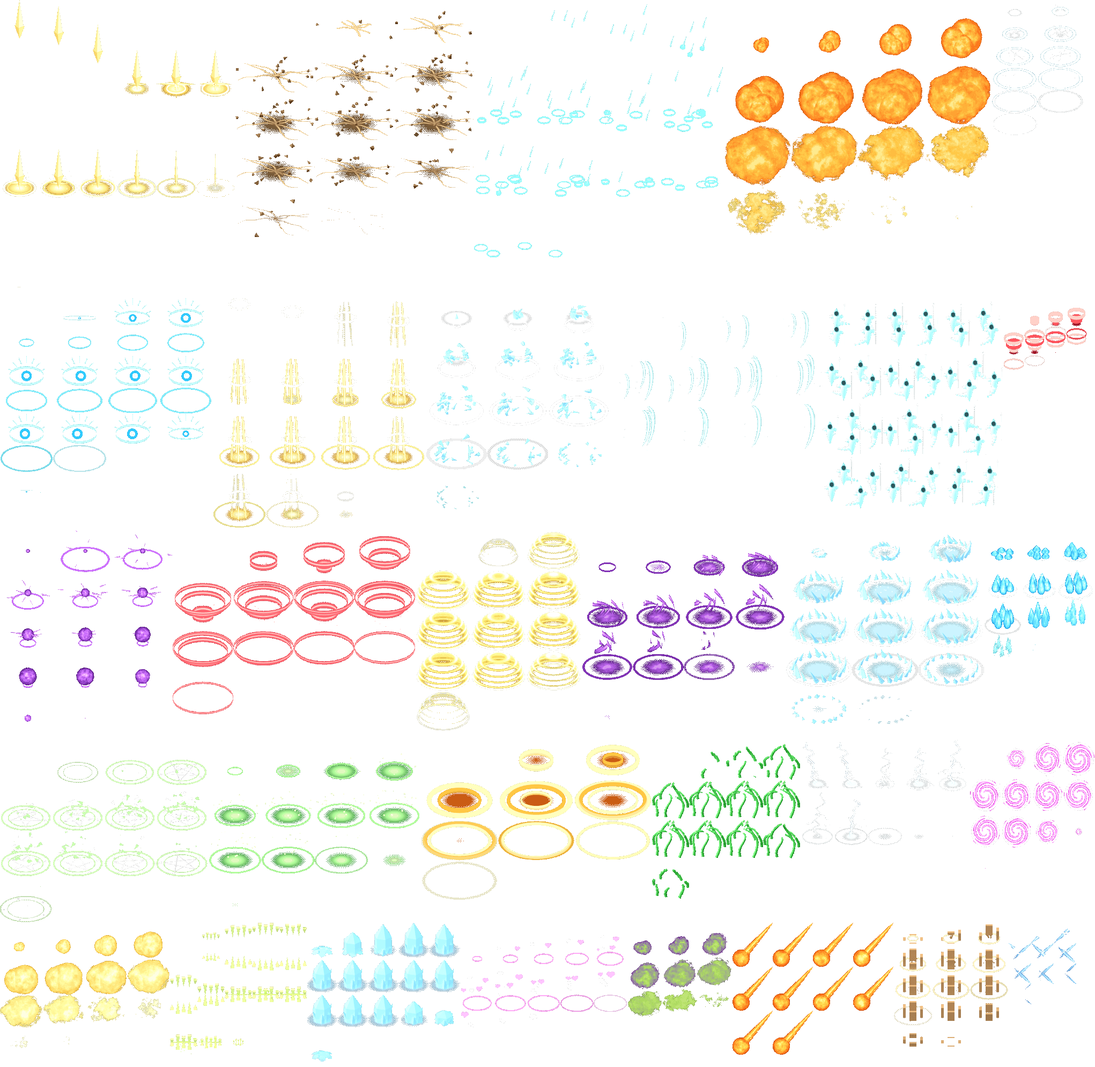
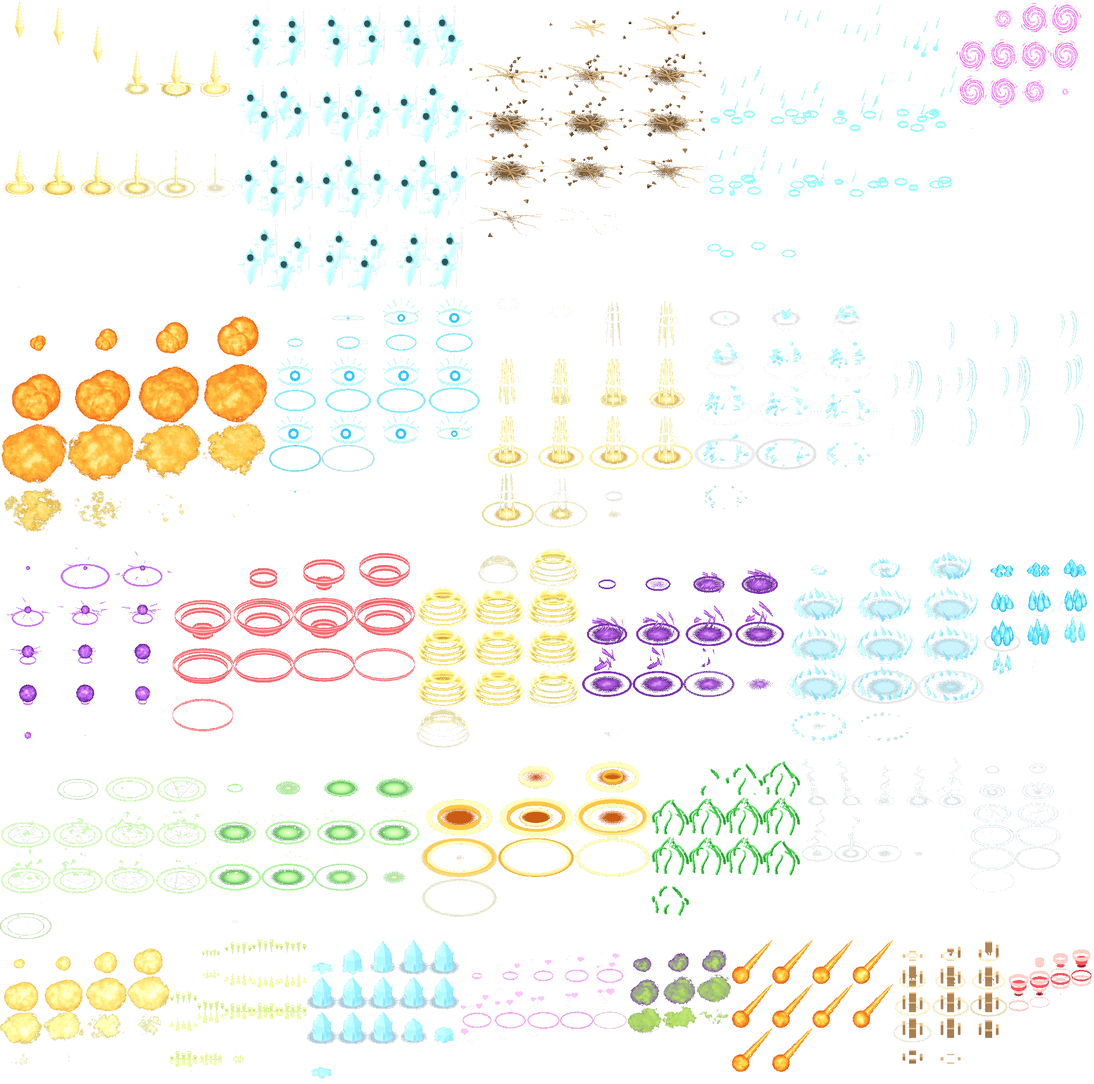
ULT-AUDIT: the guardians a full hero tall and more solid; the beast a grey wolf with an amber eye
Claude-Session: https://claude.ai/code/session_01RRJtWnKv3aqtC5Z8HqXpVz

diff --git a/src/render/blenderFxData.ts b/src/render/blenderFxData.ts
@@ -7,13 +7,13 @@ import type { BfxClip } from './blenderFxRules';
 export const BFX_DENSITY = 45;
 export const BFX_GLOW_SHRINK = 4;
 /** The hard pixel atlases' sizes, then the soft glow atlases' (`px-<n>.webp`, `soft-<n>.webp`). */
-export const BFX_PX: readonly (readonly [number, number])[] = [[2042, 1990], [1990, 685], [1088, 1104], [808, 1016], [822, 600], [949, 890], [217, 241], [1015, 806], [1137, 1385], [1001, 620], [903, 975], [1007, 966], [1016, 805], [584, 250], [1015, 996], [923, 903], [861, 944], [1176, 1280], [1516, 1280], [888, 522], [1137, 1405], [1008, 1200], [1021, 725], [929, 910], [617, 259], [1264, 1028], [807, 605], [1023, 821], [919, 810], [874, 978], [277, 220], [754, 896], [882, 878], [1008, 881], [585, 509], [817, 1019], [901, 810], [980, 813], [802, 784], [858, 814], [286, 241], [1009, 950], [689, 569], [912, 1080], [881, 584], [891, 898], [271, 232], [897, 982], [578, 235], [987, 993], [289, 253], [1018, 1006], [313, 277], [781, 941], [855, 612], [943, 881], [906, 970], [1076, 1048], [938, 695], [983, 874], [271, 232], [984, 1048], [1011, 876], [995, 758], [1516, 1200], [1014, 639], [1137, 1400], [992, 767], [1516, 1200], [871, 926], [829, 809], [945, 614], [1020, 1011], [813, 223], [1018, 1022], [499, 136], [1024, 1018], [699, 226], [1012, 1015], [515, 145], [1019, 991], [492, 148], [1003, 1020], [428, 213], [1015, 1018], [429, 124], [1003, 1006], [960, 208], [1021, 1023], [473, 145], [1024, 1008], [650, 226]];
+export const BFX_PX: readonly (readonly [number, number])[] = [[2041, 2022], [1992, 694], [1088, 1104], [808, 1016], [822, 600], [949, 890], [217, 241], [1015, 806], [1137, 1385], [1021, 769], [903, 975], [1007, 966], [1016, 805], [584, 250], [1015, 996], [923, 903], [861, 944], [1176, 1280], [1516, 1280], [888, 522], [1137, 1405], [1008, 1200], [1021, 725], [929, 910], [617, 259], [1264, 1028], [807, 605], [1023, 821], [919, 810], [874, 978], [277, 220], [754, 896], [882, 878], [1008, 881], [585, 509], [817, 1019], [901, 810], [980, 813], [802, 784], [858, 814], [286, 241], [1009, 950], [689, 569], [912, 1080], [881, 584], [891, 898], [271, 232], [897, 982], [578, 235], [987, 993], [289, 253], [1018, 1006], [313, 277], [781, 941], [855, 612], [943, 881], [906, 970], [1076, 1048], [938, 695], [983, 874], [271, 232], [984, 1048], [1011, 876], [995, 758], [1516, 1200], [1014, 639], [1137, 1400], [992, 767], [1516, 1200], [871, 926], [829, 809], [945, 614], [1020, 1011], [813, 223], [1018, 1022], [499, 136], [1024, 1018], [699, 226], [1012, 1015], [515, 145], [1019, 991], [492, 148], [1003, 1020], [428, 213], [1015, 1018], [429, 124], [1003, 1006], [960, 208], [1021, 1023], [473, 145], [1024, 1008], [650, 226]];
 export const BFX_SOFT: readonly (readonly [number, number])[] = [[2041, 1319]];
 /** The pixel atlases every fight may need (the spells, the ground loops): loaded up front. The rest are loaded when a fight needs them. */
 export const BFX_CORE: readonly number[] = [0, 1];
 
 export const BFX_CLIPS: Readonly<Record<string, BfxClip>> = {
-  'aura-spirits': {"a": 0, "x": 1534, "y": 556, "w": 112, "h": 98, "n": 12, "cols": 3, "ax": 55.0, "ay": 80.6, "ms": 1300, "loop": true, "hold": 0, "layer": "over", "el": "wind"},
+  'aura-spirits': {"a": 0, "x": 439, "y": 0, "w": 145, "h": 136, "n": 12, "cols": 3, "ax": 72.0, "ay": 116.4, "ms": 1300, "loop": true, "hold": 0, "layer": "over", "el": "wind"},
   'beat-appear-blood': {"a": 91, "x": 424, "y": 0, "w": 75, "h": 68, "n": 9, "cols": 3, "ax": 37.5, "ay": 48.3, "ms": 450, "loop": false, "hold": 4, "layer": "over", "el": "blood"},
   'beat-appear-dark': {"a": 80, "x": 386, "y": 774, "w": 75, "h": 65, "n": 9, "cols": 3, "ax": 37.5, "ay": 45.3, "ms": 450, "loop": false, "hold": 4, "layer": "over", "el": "shadow"},
   'beat-appear-earth': {"a": 87, "x": 0, "y": 0, "w": 75, "h": 69, "n": 9, "cols": 3, "ax": 37.5, "ay": 49.3, "ms": 450, "loop": false, "hold": 4, "layer": "over", "el": "earth"},
@@ -178,75 +178,75 @@ export const BFX_CLIPS: Readonly<Record<string, BfxClip>> = {
   'beat-snare-poison': {"a": 84, "x": 834, "y": 810, "w": 39, "h": 48, "n": 10, "cols": 4, "ax": 20.0, "ay": 35.7, "ms": 600, "loop": false, "hold": 6, "layer": "over", "el": "poison"},
   'beat-snare-wind': {"a": 89, "x": 0, "y": 0, "w": 38, "h": 48, "n": 10, "cols": 4, "ax": 19.0, "ay": 35.7, "ms": 600, "loop": false, "hold": 4, "layer": "over", "el": "wind"},
   'beat-tunnel': {"a": 86, "x": 334, "y": 852, "w": 41, "h": 49, "n": 9, "cols": 4, "ax": 20.5, "ay": 34.9, "ms": 520, "loop": false, "hold": 3, "layer": "over", "el": "earth"},
-  'ground-blood': {"a": 1, "x": 133, "y": 579, "w": 45, "h": 26, "n": 10, "cols": 3, "ax": 22.0, "ay": 15.3, "ms": 950, "loop": true, "hold": 0, "layer": "over", "el": "blood"},
-  'ground-dark': {"a": 1, "x": 633, "y": 446, "w": 45, "h": 31, "n": 10, "cols": 3, "ax": 22.0, "ay": 20.3, "ms": 950, "loop": true, "hold": 0, "layer": "over", "el": "shadow"},
-  'ground-earth': {"a": 1, "x": 1014, "y": 446, "w": 45, "h": 24, "n": 10, "cols": 2, "ax": 22.0, "ay": 13.3, "ms": 950, "loop": true, "hold": 0, "layer": "over", "el": "earth"},
-  'ground-fire': {"a": 1, "x": 276, "y": 446, "w": 45, "h": 32, "n": 10, "cols": 3, "ax": 22.0, "ay": 21.3, "ms": 950, "loop": true, "hold": 0, "layer": "over", "el": "fire"},
-  'ground-forest': {"a": 1, "x": 769, "y": 446, "w": 45, "h": 31, "n": 10, "cols": 3, "ax": 22.0, "ay": 20.3, "ms": 950, "loop": true, "hold": 0, "layer": "over", "el": "forest"},
-  'ground-ice': {"a": 1, "x": 269, "y": 579, "w": 45, "h": 26, "n": 10, "cols": 3, "ax": 22.0, "ay": 15.3, "ms": 950, "loop": true, "hold": 0, "layer": "over", "el": "ice"},
-  'ground-light': {"a": 1, "x": 1592, "y": 241, "w": 45, "h": 35, "n": 10, "cols": 3, "ax": 22.0, "ay": 24.3, "ms": 950, "loop": true, "hold": 0, "layer": "over", "el": "holy", "g": {"a": 0, "x": 1025, "y": 1237, "w": 15, "h": 17, "cols": 4, "ax": 7.25, "ay": 12.58}},
-  'ground-lightning': {"a": 1, "x": 1574, "y": 446, "w": 45, "h": 27, "n": 10, "cols": 3, "ax": 22.0, "ay": 16.3, "ms": 950, "loop": true, "hold": 0, "layer": "over", "el": "lightning", "g": {"a": 0, "x": 1087, "y": 1237, "w": 15, "h": 17, "cols": 4, "ax": 7.25, "ay": 12.58}},
-  'ground-poison': {"a": 1, "x": 542, "y": 446, "w": 45, "h": 25, "n": 10, "cols": 2, "ax": 22.0, "ay": 14.3, "ms": 950, "loop": true, "hold": 0, "layer": "over", "el": "poison"},
-  'ground-wind': {"a": 1, "x": 1208, "y": 446, "w": 45, "h": 23, "n": 10, "cols": 2, "ax": 22.0, "ay": 12.3, "ms": 950, "loop": true, "hold": 0, "layer": "over", "el": "wind"},
-  'spell-blink-cast': {"a": 0, "x": 1809, "y": 1380, "w": 58, "h": 68, "n": 14, "cols": 4, "ax": 28.5, "ay": 61.3, "ms": 980, "loop": false, "hold": 3, "layer": "over", "el": "arcane"},
-  'spell-bonewall-stand': {"a": 1, "x": 1728, "y": 241, "w": 34, "h": 46, "n": 10, "cols": 4, "ax": 17.0, "ay": 36.8, "ms": 900, "loop": true, "hold": 0, "layer": "over", "el": "bone"},
-  'spell-bulwark-hit': {"a": 0, "x": 1667, "y": 1721, "w": 71, "h": 48, "n": 14, "cols": 3, "ax": 35.5, "ay": 30.1, "ms": 980, "loop": false, "hold": 7, "layer": "over", "el": "earth"},
-  'spell-chain-cast': {"a": 1, "x": 0, "y": 446, "w": 46, "h": 33, "n": 12, "cols": 3, "ax": 23.5, "ay": 34.4, "ms": 780, "loop": false, "hold": 3, "layer": "over", "el": "lightning", "g": {"a": 0, "x": 95, "y": 1147, "w": 30, "h": 22, "cols": 3, "ax": 14.62, "ay": 13.09}},
-  'spell-chain-hit': {"a": 0, "x": 1493, "y": 1380, "w": 63, "h": 98, "n": 12, "cols": 5, "ax": 31.5, "ay": 82.8, "ms": 780, "loop": false, "hold": 4, "layer": "over", "el": "lightning", "g": {"a": 0, "x": 1519, "y": 744, "w": 35, "h": 35, "cols": 3, "ax": 17.12, "ay": 25.45}},
+  'ground-blood': {"a": 1, "x": 262, "y": 585, "w": 45, "h": 26, "n": 10, "cols": 3, "ax": 22.0, "ay": 15.3, "ms": 950, "loop": true, "hold": 0, "layer": "over", "el": "blood"},
+  'ground-dark': {"a": 1, "x": 758, "y": 446, "w": 45, "h": 31, "n": 10, "cols": 3, "ax": 22.0, "ay": 20.3, "ms": 950, "loop": true, "hold": 0, "layer": "over", "el": "shadow"},
+  'ground-earth': {"a": 1, "x": 1139, "y": 446, "w": 45, "h": 24, "n": 10, "cols": 2, "ax": 22.0, "ay": 13.3, "ms": 950, "loop": true, "hold": 0, "layer": "over", "el": "earth"},
+  'ground-fire': {"a": 1, "x": 401, "y": 446, "w": 45, "h": 32, "n": 10, "cols": 3, "ax": 22.0, "ay": 21.3, "ms": 950, "loop": true, "hold": 0, "layer": "over", "el": "fire"},
+  'ground-forest': {"a": 1, "x": 894, "y": 446, "w": 45, "h": 31, "n": 10, "cols": 3, "ax": 22.0, "ay": 20.3, "ms": 950, "loop": true, "hold": 0, "layer": "over", "el": "forest"},
+  'ground-ice': {"a": 1, "x": 398, "y": 585, "w": 45, "h": 26, "n": 10, "cols": 3, "ax": 22.0, "ay": 15.3, "ms": 950, "loop": true, "hold": 0, "layer": "over", "el": "ice"},
+  'ground-light': {"a": 1, "x": 1719, "y": 241, "w": 45, "h": 35, "n": 10, "cols": 3, "ax": 22.0, "ay": 24.3, "ms": 950, "loop": true, "hold": 0, "layer": "over", "el": "holy", "g": {"a": 0, "x": 1025, "y": 1237, "w": 15, "h": 17, "cols": 4, "ax": 7.25, "ay": 12.58}},
+  'ground-lightning': {"a": 1, "x": 1699, "y": 446, "w": 45, "h": 27, "n": 10, "cols": 3, "ax": 22.0, "ay": 16.3, "ms": 950, "loop": true, "hold": 0, "layer": "over", "el": "lightning", "g": {"a": 0, "x": 1087, "y": 1237, "w": 15, "h": 17, "cols": 4, "ax": 7.25, "ay": 12.58}},
+  'ground-poison': {"a": 1, "x": 667, "y": 446, "w": 45, "h": 25, "n": 10, "cols": 2, "ax": 22.0, "ay": 14.3, "ms": 950, "loop": true, "hold": 0, "layer": "over", "el": "poison"},
+  'ground-wind': {"a": 1, "x": 1333, "y": 446, "w": 45, "h": 23, "n": 10, "cols": 2, "ax": 22.0, "ay": 12.3, "ms": 950, "loop": true, "hold": 0, "layer": "over", "el": "wind"},
+  'spell-blink-cast': {"a": 0, "x": 1785, "y": 0, "w": 58, "h": 68, "n": 14, "cols": 4, "ax": 28.5, "ay": 61.3, "ms": 980, "loop": false, "hold": 3, "layer": "over", "el": "arcane"},
+  'spell-bonewall-stand': {"a": 1, "x": 1855, "y": 241, "w": 34, "h": 46, "n": 10, "cols": 4, "ax": 17.0, "ay": 36.8, "ms": 900, "loop": true, "hold": 0, "layer": "over", "el": "bone"},
+  'spell-bulwark-hit': {"a": 0, "x": 1667, "y": 1753, "w": 71, "h": 48, "n": 14, "cols": 3, "ax": 35.5, "ay": 30.1, "ms": 980, "loop": false, "hold": 7, "layer": "over", "el": "earth"},
+  'spell-chain-cast': {"a": 1, "x": 125, "y": 446, "w": 46, "h": 33, "n": 12, "cols": 3, "ax": 23.5, "ay": 34.4, "ms": 780, "loop": false, "hold": 3, "layer": "over", "el": "lightning", "g": {"a": 0, "x": 95, "y": 1147, "w": 30, "h": 22, "cols": 3, "ax": 14.62, "ay": 13.09}},
+  'spell-chain-hit': {"a": 0, "x": 1493, "y": 1412, "w": 63, "h": 98, "n": 12, "cols": 5, "ax": 31.5, "ay": 82.8, "ms": 780, "loop": false, "hold": 4, "layer": "over", "el": "lightning", "g": {"a": 0, "x": 1519, "y": 744, "w": 35, "h": 35, "cols": 3, "ax": 17.12, "ay": 25.45}},
   'spell-charm-cast': {"a": 1, "x": 821, "y": 241, "w": 83, "h": 44, "n": 12, "cols": 3, "ax": 41.5, "ay": 23.0, "ms": 780, "loop": false, "hold": 3, "layer": "ground", "el": "arcane"},
-  'spell-charm-hit': {"a": 0, "x": 859, "y": 1721, "w": 62, "h": 83, "n": 14, "cols": 5, "ax": 31.0, "ay": 68.1, "ms": 980, "loop": false, "hold": 6, "layer": "over", "el": "arcane"},
-  'spell-cleanse-cast': {"a": 0, "x": 884, "y": 0, "w": 116, "h": 123, "n": 14, "cols": 4, "ax": 53.5, "ay": 98.9, "ms": 980, "loop": false, "hold": 7, "layer": "over", "el": "water"},
-  'spell-cleanse-hit': {"a": 0, "x": 1836, "y": 989, "w": 68, "h": 65, "n": 12, "cols": 3, "ax": 34.0, "ay": 47.8, "ms": 780, "loop": false, "hold": 6, "layer": "over", "el": "water"},
+  'spell-charm-hit': {"a": 0, "x": 859, "y": 1753, "w": 62, "h": 83, "n": 14, "cols": 5, "ax": 31.0, "ay": 68.1, "ms": 980, "loop": false, "hold": 6, "layer": "over", "el": "arcane"},
+  'spell-cleanse-cast': {"a": 0, "x": 1320, "y": 0, "w": 116, "h": 123, "n": 14, "cols": 4, "ax": 53.5, "ay": 98.9, "ms": 980, "loop": false, "hold": 7, "layer": "over", "el": "water"},
+  'spell-cleanse-hit': {"a": 0, "x": 1836, "y": 1021, "w": 68, "h": 65, "n": 12, "cols": 3, "ax": 34.0, "ay": 47.8, "ms": 780, "loop": false, "hold": 6, "layer": "over", "el": "water"},
   'spell-deepfreeze-cast': {"a": 1, "x": 1690, "y": 0, "w": 97, "h": 51, "n": 12, "cols": 3, "ax": 48.5, "ay": 26.5, "ms": 780, "loop": false, "hold": 4, "layer": "ground", "el": "ice"},
-  'spell-deepfreeze-hit': {"a": 0, "x": 573, "y": 1721, "w": 57, "h": 65, "n": 16, "cols": 5, "ax": 27.5, "ay": 51.3, "ms": 1280, "loop": false, "hold": 3, "layer": "over", "el": "ice"},
+  'spell-deepfreeze-hit': {"a": 0, "x": 573, "y": 1753, "w": 57, "h": 65, "n": 16, "cols": 5, "ax": 27.5, "ay": 51.3, "ms": 1280, "loop": false, "hold": 3, "layer": "over", "el": "ice"},
   'spell-drain-hit': {"a": 1, "x": 292, "y": 0, "w": 47, "h": 78, "n": 14, "cols": 5, "ax": 23.5, "ay": 66.4, "ms": 980, "loop": false, "hold": 9, "layer": "over", "el": "blood"},
-  'spell-firewall-stand': {"a": 1, "x": 1423, "y": 446, "w": 30, "h": 55, "n": 10, "cols": 5, "ax": 15.0, "ay": 48.9, "ms": 900, "loop": true, "hold": 0, "layer": "over", "el": "fire"},
-  'spell-foresight-cast': {"a": 0, "x": 0, "y": 556, "w": 99, "h": 108, "n": 14, "cols": 4, "ax": 49.5, "ay": 83.9, "ms": 980, "loop": false, "hold": 7, "layer": "over", "el": "water", "g": {"a": 0, "x": 1626, "y": 744, "w": 35, "h": 34, "cols": 4, "ax": 17.12, "ay": 23.99}},
-  'spell-frost-cast': {"a": 0, "x": 1466, "y": 989, "w": 123, "h": 73, "n": 14, "cols": 3, "ax": 61.5, "ay": 42.4, "ms": 980, "loop": false, "hold": 9, "layer": "over", "el": "ice"},
-  'spell-frost-hit': {"a": 1, "x": 1710, "y": 446, "w": 31, "h": 36, "n": 12, "cols": 4, "ax": 15.5, "ay": 28.2, "ms": 780, "loop": false, "hold": 5, "layer": "over", "el": "ice"},
-  'spell-gale-cast': {"a": 0, "x": 1137, "y": 556, "w": 99, "h": 99, "n": 14, "cols": 4, "ax": 48.0, "ay": 72.5, "ms": 980, "loop": false, "hold": 6, "layer": "over", "el": "wind"},
+  'spell-firewall-stand': {"a": 1, "x": 1548, "y": 446, "w": 30, "h": 55, "n": 10, "cols": 5, "ax": 15.0, "ay": 48.9, "ms": 900, "loop": true, "hold": 0, "layer": "over", "el": "fire"},
+  'spell-foresight-cast': {"a": 0, "x": 501, "y": 556, "w": 99, "h": 108, "n": 14, "cols": 4, "ax": 49.5, "ay": 83.9, "ms": 980, "loop": false, "hold": 7, "layer": "over", "el": "water", "g": {"a": 0, "x": 1626, "y": 744, "w": 35, "h": 34, "cols": 4, "ax": 17.12, "ay": 23.99}},
+  'spell-frost-cast': {"a": 0, "x": 1466, "y": 1021, "w": 123, "h": 73, "n": 14, "cols": 3, "ax": 61.5, "ay": 42.4, "ms": 980, "loop": false, "hold": 9, "layer": "over", "el": "ice"},
+  'spell-frost-hit': {"a": 1, "x": 1835, "y": 446, "w": 31, "h": 36, "n": 12, "cols": 4, "ax": 15.5, "ay": 28.2, "ms": 780, "loop": false, "hold": 5, "layer": "over", "el": "ice"},
+  'spell-gale-cast': {"a": 0, "x": 1638, "y": 556, "w": 99, "h": 99, "n": 14, "cols": 4, "ax": 48.0, "ay": 72.5, "ms": 980, "loop": false, "hold": 6, "layer": "over", "el": "wind"},
   'spell-haste-cast': {"a": 1, "x": 963, "y": 0, "w": 106, "h": 55, "n": 12, "cols": 3, "ax": 53.0, "ay": 28.0, "ms": 780, "loop": false, "hold": 4, "layer": "ground", "el": "wind"},
   'spell-haste-hit': {"a": 1, "x": 706, "y": 0, "w": 64, "h": 74, "n": 12, "cols": 4, "ax": 32.0, "ay": 58.0, "ms": 780, "loop": false, "hold": 3, "layer": "over", "el": "wind"},
-  'spell-heal-cast': {"a": 0, "x": 389, "y": 1380, "w": 99, "h": 83, "n": 14, "cols": 4, "ax": 49.5, "ay": 59.0, "ms": 980, "loop": false, "hold": 7, "layer": "over", "el": "forest", "g": {"a": 0, "x": 493, "y": 906, "w": 35, "h": 28, "cols": 4, "ax": 17.12, "ay": 17.74}},
+  'spell-heal-cast': {"a": 0, "x": 389, "y": 1412, "w": 99, "h": 83, "n": 14, "cols": 4, "ax": 49.5, "ay": 59.0, "ms": 980, "loop": false, "hold": 7, "layer": "over", "el": "forest", "g": {"a": 0, "x": 493, "y": 906, "w": 35, "h": 28, "cols": 4, "ax": 17.12, "ay": 17.74}},
   'spell-heal-hit': {"a": 1, "x": 229, "y": 241, "w": 59, "h": 49, "n": 12, "cols": 3, "ax": 29.5, "ay": 34.8, "ms": 780, "loop": false, "hold": 7, "layer": "over", "el": "forest", "g": {"a": 0, "x": 596, "y": 1237, "w": 19, "h": 22, "cols": 4, "ax": 9.12, "ay": 15.7}},
-  'spell-hex-cast': {"a": 0, "x": 0, "y": 989, "w": 107, "h": 78, "n": 14, "cols": 3, "ax": 52.0, "ay": 55.1, "ms": 980, "loop": false, "hold": 10, "layer": "over", "el": "shadow"},
-  'spell-hex-hit': {"a": 1, "x": 1415, "y": 241, "w": 44, "h": 48, "n": 12, "cols": 4, "ax": 20.5, "ay": 37.6, "ms": 780, "loop": false, "hold": 5, "layer": "over", "el": "shadow"},
-  'spell-icewall-stand': {"a": 1, "x": 1865, "y": 241, "w": 31, "h": 46, "n": 10, "cols": 4, "ax": 15.0, "ay": 38.9, "ms": 900, "loop": true, "hold": 0, "layer": "over", "el": "ice"},
-  'spell-lance-cast': {"a": 1, "x": 1835, "y": 446, "w": 32, "h": 36, "n": 12, "cols": 4, "ax": 16.0, "ay": 28.8, "ms": 780, "loop": false, "hold": 5, "layer": "over", "el": "holy", "g": {"a": 0, "x": 1919, "y": 1147, "w": 22, "h": 20, "cols": 3, "ax": 10.75, "ay": 12.45}},
-  'spell-lance-hit': {"a": 1, "x": 1299, "y": 446, "w": 41, "h": 28, "n": 12, "cols": 3, "ax": 23.0, "ay": 31.5, "ms": 780, "loop": false, "hold": 3, "layer": "over", "el": "holy", "g": {"a": 0, "x": 528, "y": 1237, "w": 22, "h": 18, "cols": 3, "ax": 10.75, "ay": 11.63}},
-  'spell-meteor-fly': {"a": 0, "x": 1366, "y": 1721, "w": 75, "h": 82, "n": 10, "cols": 4, "ax": 16.0, "ay": 66.0, "ms": 900, "loop": true, "hold": 0, "layer": "over", "el": "fire"},
-  'spell-meteor-land': {"a": 0, "x": 1349, "y": 0, "w": 125, "h": 116, "n": 16, "cols": 4, "ax": 74.0, "ay": 95.0, "ms": 1040, "loop": false, "hold": 8, "layer": "over", "el": "fire"},
+  'spell-hex-cast': {"a": 0, "x": 0, "y": 1021, "w": 107, "h": 78, "n": 14, "cols": 3, "ax": 52.0, "ay": 55.1, "ms": 980, "loop": false, "hold": 10, "layer": "over", "el": "shadow"},
+  'spell-hex-hit': {"a": 1, "x": 1542, "y": 241, "w": 44, "h": 48, "n": 12, "cols": 4, "ax": 20.5, "ay": 37.6, "ms": 780, "loop": false, "hold": 5, "layer": "over", "el": "shadow"},
+  'spell-icewall-stand': {"a": 1, "x": 0, "y": 446, "w": 31, "h": 46, "n": 10, "cols": 4, "ax": 15.0, "ay": 38.9, "ms": 900, "loop": true, "hold": 0, "layer": "over", "el": "ice"},
+  'spell-lance-cast': {"a": 1, "x": 0, "y": 585, "w": 32, "h": 36, "n": 12, "cols": 4, "ax": 16.0, "ay": 28.8, "ms": 780, "loop": false, "hold": 5, "layer": "over", "el": "holy", "g": {"a": 0, "x": 1919, "y": 1147, "w": 22, "h": 20, "cols": 3, "ax": 10.75, "ay": 12.45}},
+  'spell-lance-hit': {"a": 1, "x": 1424, "y": 446, "w": 41, "h": 28, "n": 12, "cols": 3, "ax": 23.0, "ay": 31.5, "ms": 780, "loop": false, "hold": 3, "layer": "over", "el": "holy", "g": {"a": 0, "x": 528, "y": 1237, "w": 22, "h": 18, "cols": 3, "ax": 10.75, "ay": 11.63}},
+  'spell-meteor-fly': {"a": 0, "x": 1366, "y": 1753, "w": 75, "h": 82, "n": 10, "cols": 4, "ax": 16.0, "ay": 66.0, "ms": 900, "loop": true, "hold": 0, "layer": "over", "el": "fire"},
+  'spell-meteor-land': {"a": 0, "x": 0, "y": 556, "w": 125, "h": 116, "n": 16, "cols": 4, "ax": 74.0, "ay": 95.0, "ms": 1040, "loop": false, "hold": 8, "layer": "over", "el": "fire"},
   'spell-mirage-hit': {"a": 1, "x": 600, "y": 241, "w": 44, "h": 62, "n": 14, "cols": 5, "ax": 21.0, "ay": 55.0, "ms": 980, "loop": false, "hold": 6, "layer": "over", "el": "wind"},
-  'spell-poison-cast': {"a": 0, "x": 1170, "y": 1721, "w": 65, "h": 62, "n": 12, "cols": 3, "ax": 25.0, "ay": 52.9, "ms": 780, "loop": false, "hold": 5, "layer": "over", "el": "poison"},
-  'spell-poison-stand': {"a": 1, "x": 905, "y": 446, "w": 36, "h": 31, "n": 10, "cols": 3, "ax": 15.0, "ay": 24.8, "ms": 900, "loop": true, "hold": 0, "layer": "over", "el": "poison"},
-  'spell-quake-cast': {"a": 0, "x": 439, "y": 0, "w": 148, "h": 89, "n": 16, "cols": 3, "ax": 74.5, "ay": 53.5, "ms": 1200, "loop": false, "hold": 7, "layer": "ground", "el": "earth"},
-  'spell-quake-hit': {"a": 1, "x": 0, "y": 579, "w": 33, "h": 35, "n": 12, "cols": 4, "ax": 18.5, "ay": 24.9, "ms": 780, "loop": false, "hold": 4, "layer": "over", "el": "earth"},
-  'spell-raisedead-cast': {"a": 0, "x": 1085, "y": 989, "w": 95, "h": 93, "n": 14, "cols": 4, "ax": 47.5, "ay": 69.8, "ms": 980, "loop": false, "hold": 8, "layer": "over", "el": "shadow"},
+  'spell-poison-cast': {"a": 0, "x": 1170, "y": 1753, "w": 65, "h": 62, "n": 12, "cols": 3, "ax": 25.0, "ay": 52.9, "ms": 780, "loop": false, "hold": 5, "layer": "over", "el": "poison"},
+  'spell-poison-stand': {"a": 1, "x": 1030, "y": 446, "w": 36, "h": 31, "n": 10, "cols": 3, "ax": 15.0, "ay": 24.8, "ms": 900, "loop": true, "hold": 0, "layer": "over", "el": "poison"},
+  'spell-quake-cast': {"a": 0, "x": 875, "y": 0, "w": 148, "h": 89, "n": 16, "cols": 3, "ax": 74.5, "ay": 53.5, "ms": 1200, "loop": false, "hold": 7, "layer": "ground", "el": "earth"},
+  'spell-quake-hit': {"a": 1, "x": 129, "y": 585, "w": 33, "h": 35, "n": 12, "cols": 4, "ax": 18.5, "ay": 24.9, "ms": 780, "loop": false, "hold": 4, "layer": "over", "el": "earth"},
+  'spell-raisedead-cast': {"a": 0, "x": 1085, "y": 1021, "w": 95, "h": 93, "n": 14, "cols": 4, "ax": 47.5, "ay": 69.8, "ms": 980, "loop": false, "hold": 8, "layer": "over", "el": "shadow"},
   'spell-raisedead-hit': {"a": 1, "x": 528, "y": 0, "w": 59, "h": 56, "n": 12, "cols": 3, "ax": 29.5, "ay": 41.7, "ms": 780, "loop": false, "hold": 7, "layer": "over", "el": "shadow"},
-  'spell-rally-cast': {"a": 0, "x": 786, "y": 1380, "w": 143, "h": 75, "n": 12, "cols": 3, "ax": 71.0, "ay": 38.5, "ms": 780, "loop": false, "hold": 4, "layer": "ground", "el": "fire"},
+  'spell-rally-cast': {"a": 0, "x": 786, "y": 1412, "w": 143, "h": 75, "n": 12, "cols": 3, "ax": 71.0, "ay": 38.5, "ms": 780, "loop": false, "hold": 4, "layer": "ground", "el": "fire"},
   'spell-rally-hit': {"a": 1, "x": 1469, "y": 0, "w": 55, "h": 53, "n": 14, "cols": 4, "ax": 27.5, "ay": 39.3, "ms": 980, "loop": false, "hold": 7, "layer": "over", "el": "fire"},
-  'spell-renewal-cast': {"a": 0, "x": 0, "y": 1380, "w": 97, "h": 85, "n": 14, "cols": 4, "ax": 48.0, "ay": 61.2, "ms": 980, "loop": false, "hold": 6, "layer": "over", "el": "forest", "cuts": [[0, 13], [1, 13]], "sc": ["sigil", "swarm"], "g": {"a": 0, "x": 802, "y": 1040, "w": 31, "h": 26, "cols": 4, "ax": 15.5, "ay": 17.05}},
-  'spell-renewal-hit': {"a": 1, "x": 139, "y": 446, "w": 34, "h": 44, "n": 12, "cols": 4, "ax": 16.5, "ay": 35.6, "ms": 780, "loop": false, "hold": 6, "layer": "over", "el": "forest", "g": {"a": 0, "x": 831, "y": 1237, "w": 17, "h": 18, "cols": 4, "ax": 8.38, "ay": 12.89}},
+  'spell-renewal-cast': {"a": 0, "x": 0, "y": 1412, "w": 97, "h": 85, "n": 14, "cols": 4, "ax": 48.0, "ay": 61.2, "ms": 980, "loop": false, "hold": 6, "layer": "over", "el": "forest", "cuts": [[0, 13], [1, 13]], "sc": ["sigil", "swarm"], "g": {"a": 0, "x": 802, "y": 1040, "w": 31, "h": 26, "cols": 4, "ax": 15.5, "ay": 17.05}},
+  'spell-renewal-hit': {"a": 1, "x": 264, "y": 446, "w": 34, "h": 44, "n": 12, "cols": 4, "ax": 16.5, "ay": 35.6, "ms": 780, "loop": false, "hold": 6, "layer": "over", "el": "forest", "g": {"a": 0, "x": 831, "y": 1237, "w": 17, "h": 18, "cols": 4, "ax": 8.38, "ay": 12.89}},
   'spell-resurrect-cast': {"a": 1, "x": 0, "y": 0, "w": 97, "h": 60, "n": 11, "cols": 3, "ax": 48.5, "ay": 36.6, "ms": 980, "loop": false, "hold": 4, "layer": "ground", "el": "holy", "g": {"a": 0, "x": 0, "y": 1237, "w": 30, "h": 20, "cols": 3, "ax": 14.62, "ay": 11.64}},
-  'spell-resurrect-hit': {"a": 0, "x": 397, "y": 556, "w": 99, "h": 107, "n": 16, "cols": 4, "ax": 49.5, "ay": 83.1, "ms": 1200, "loop": false, "hold": 10, "layer": "over", "el": "holy", "g": {"a": 0, "x": 143, "y": 906, "w": 28, "h": 32, "cols": 5, "ax": 13.88, "ay": 24.03}},
-  'spell-shatter-cast': {"a": 0, "x": 794, "y": 556, "w": 114, "h": 80, "n": 14, "cols": 3, "ax": 57.5, "ay": 51.6, "ms": 980, "loop": false, "hold": 8, "layer": "over", "el": "ice"},
-  'spell-shatter-hit': {"a": 0, "x": 1881, "y": 1721, "w": 42, "h": 38, "n": 12, "cols": 3, "ax": 21.0, "ay": 41.0, "ms": 780, "loop": false, "hold": 5, "layer": "over", "el": "ice"},
-  'spell-shield-cast': {"a": 0, "x": 775, "y": 989, "w": 103, "h": 75, "n": 14, "cols": 3, "ax": 51.5, "ay": 49.3, "ms": 980, "loop": false, "hold": 7, "layer": "over", "el": "holy", "g": {"a": 0, "x": 395, "y": 906, "w": 32, "h": 24, "cols": 3, "ax": 15.88, "ay": 14.32}},
-  'spell-shield-hit': {"a": 1, "x": 412, "y": 446, "w": 43, "h": 32, "n": 12, "cols": 3, "ax": 21.5, "ay": 21.5, "ms": 780, "loop": false, "hold": 3, "layer": "over", "el": "holy", "g": {"a": 0, "x": 1987, "y": 1147, "w": 17, "h": 14, "cols": 3, "ax": 8.38, "ay": 8.12}},
-  'spell-smite-cast': {"a": 1, "x": 1071, "y": 241, "w": 69, "h": 37, "n": 12, "cols": 3, "ax": 34.0, "ay": 19.0, "ms": 780, "loop": false, "hold": 3, "layer": "ground", "el": "holy", "g": {"a": 0, "x": 760, "y": 1237, "w": 23, "h": 14, "cols": 3, "ax": 11.5, "ay": 6.75}},
+  'spell-resurrect-hit': {"a": 0, "x": 898, "y": 556, "w": 99, "h": 107, "n": 16, "cols": 4, "ax": 49.5, "ay": 83.1, "ms": 1200, "loop": false, "hold": 10, "layer": "over", "el": "holy", "g": {"a": 0, "x": 143, "y": 906, "w": 28, "h": 32, "cols": 5, "ax": 13.88, "ay": 24.03}},
+  'spell-shatter-cast': {"a": 0, "x": 1295, "y": 556, "w": 114, "h": 80, "n": 14, "cols": 3, "ax": 57.5, "ay": 51.6, "ms": 980, "loop": false, "hold": 8, "layer": "over", "el": "ice"},
+  'spell-shatter-hit': {"a": 1, "x": 1071, "y": 241, "w": 42, "h": 38, "n": 12, "cols": 3, "ax": 21.0, "ay": 41.0, "ms": 780, "loop": false, "hold": 5, "layer": "over", "el": "ice"},
+  'spell-shield-cast': {"a": 0, "x": 775, "y": 1021, "w": 103, "h": 75, "n": 14, "cols": 3, "ax": 51.5, "ay": 49.3, "ms": 980, "loop": false, "hold": 7, "layer": "over", "el": "holy", "g": {"a": 0, "x": 395, "y": 906, "w": 32, "h": 24, "cols": 3, "ax": 15.88, "ay": 14.32}},
+  'spell-shield-hit': {"a": 1, "x": 537, "y": 446, "w": 43, "h": 32, "n": 12, "cols": 3, "ax": 21.5, "ay": 21.5, "ms": 780, "loop": false, "hold": 3, "layer": "over", "el": "holy", "g": {"a": 0, "x": 1987, "y": 1147, "w": 17, "h": 14, "cols": 3, "ax": 8.38, "ay": 8.12}},
+  'spell-smite-cast': {"a": 1, "x": 1198, "y": 241, "w": 69, "h": 37, "n": 12, "cols": 3, "ax": 34.0, "ay": 19.0, "ms": 780, "loop": false, "hold": 3, "layer": "ground", "el": "holy", "g": {"a": 0, "x": 760, "y": 1237, "w": 23, "h": 14, "cols": 3, "ax": 11.5, "ay": 6.75}},
   'spell-smite-hit': {"a": 0, "x": 0, "y": 0, "w": 73, "h": 185, "n": 14, "cols": 6, "ax": 36.5, "ay": 166.4, "ms": 980, "loop": false, "hold": 7, "layer": "over", "el": "holy", "g": {"a": 0, "x": 1378, "y": 452, "w": 36, "h": 58, "cols": 5, "ax": 17.88, "ay": 47.35}},
-  'spell-snare-cast': {"a": 0, "x": 1216, "y": 1380, "w": 69, "h": 74, "n": 14, "cols": 4, "ax": 31.0, "ay": 53.2, "ms": 980, "loop": false, "hold": 8, "layer": "over", "el": "forest"},
-  'spell-snare-hit': {"a": 1, "x": 514, "y": 579, "w": 25, "h": 31, "n": 12, "cols": 4, "ax": 12.0, "ay": 24.1, "ms": 780, "loop": false, "hold": 7, "layer": "over", "el": "forest"},
+  'spell-snare-cast': {"a": 0, "x": 1216, "y": 1412, "w": 69, "h": 74, "n": 14, "cols": 4, "ax": 31.0, "ay": 53.2, "ms": 980, "loop": false, "hold": 8, "layer": "over", "el": "forest"},
+  'spell-snare-hit': {"a": 1, "x": 643, "y": 585, "w": 25, "h": 31, "n": 12, "cols": 4, "ax": 12.0, "ay": 24.1, "ms": 780, "loop": false, "hold": 7, "layer": "over", "el": "forest"},
   'spell-starfall-fly': {"a": 1, "x": 1282, "y": 0, "w": 62, "h": 54, "n": 10, "cols": 3, "ax": 13.5, "ay": 39.4, "ms": 900, "loop": true, "hold": 0, "layer": "over", "el": "holy", "g": {"a": 0, "x": 285, "y": 906, "w": 36, "h": 32, "cols": 3, "ax": 17.88, "ay": 21.84}},
-  'spell-starfall-land': {"a": 0, "x": 0, "y": 1721, "w": 79, "h": 67, "n": 14, "cols": 4, "ax": 34.5, "ay": 55.6, "ms": 980, "loop": false, "hold": 7, "layer": "over", "el": "holy", "g": {"a": 0, "x": 1722, "y": 452, "w": 46, "h": 33, "cols": 3, "ax": 22.62, "ay": 19.9}},
+  'spell-starfall-land': {"a": 0, "x": 0, "y": 1753, "w": 79, "h": 67, "n": 14, "cols": 4, "ax": 34.5, "ay": 55.6, "ms": 980, "loop": false, "hold": 7, "layer": "over", "el": "holy", "g": {"a": 0, "x": 1722, "y": 452, "w": 46, "h": 33, "cols": 3, "ax": 22.62, "ay": 19.9}},
   'spell-sunbeam-cast': {"a": 1, "x": 0, "y": 241, "w": 57, "h": 68, "n": 12, "cols": 4, "ax": 14.5, "ay": 59.9, "ms": 780, "loop": false, "hold": 6, "layer": "over", "el": "holy", "g": {"a": 0, "x": 1866, "y": 0, "w": 48, "h": 44, "cols": 3, "ax": 23.62, "ay": 29.24}},
-  'spell-sunbeam-hit': {"a": 1, "x": 1105, "y": 446, "w": 34, "h": 30, "n": 12, "cols": 3, "ax": 17.0, "ay": 28.5, "ms": 780, "loop": false, "hold": 3, "layer": "over", "el": "fire"},
-  'spell-thunderclap-hit': {"a": 0, "x": 1850, "y": 0, "w": 85, "h": 42, "n": 12, "cols": 2, "ax": 42.5, "ay": 24.5, "ms": 780, "loop": false, "hold": 6, "layer": "over", "el": "lightning", "g": {"a": 0, "x": 674, "y": 1237, "w": 28, "h": 16, "cols": 3, "ax": 13.88, "ay": 7.88}},
-  'spell-venom-hit': {"a": 0, "x": 317, "y": 1721, "w": 51, "h": 89, "n": 14, "cols": 5, "ax": 25.5, "ay": 70.9, "ms": 980, "loop": false, "hold": 3, "layer": "over", "el": "poison"},
-  'spell-warcry-cast': {"a": 0, "x": 322, "y": 989, "w": 113, "h": 94, "n": 14, "cols": 4, "ax": 56.5, "ay": 77.6, "ms": 980, "loop": false, "hold": 6, "layer": "over", "el": "blood"},
-  'spell-warcry-hit': {"a": 0, "x": 1871, "y": 556, "w": 39, "h": 53, "n": 12, "cols": 4, "ax": 19.5, "ay": 48.7, "ms": 780, "loop": false, "hold": 5, "layer": "over", "el": "blood"},
+  'spell-sunbeam-hit': {"a": 1, "x": 1230, "y": 446, "w": 34, "h": 30, "n": 12, "cols": 3, "ax": 17.0, "ay": 28.5, "ms": 780, "loop": false, "hold": 3, "layer": "over", "el": "fire"},
+  'spell-thunderclap-hit': {"a": 0, "x": 1809, "y": 1412, "w": 85, "h": 42, "n": 12, "cols": 2, "ax": 42.5, "ay": 24.5, "ms": 780, "loop": false, "hold": 6, "layer": "over", "el": "lightning", "g": {"a": 0, "x": 674, "y": 1237, "w": 28, "h": 16, "cols": 3, "ax": 13.88, "ay": 7.88}},
+  'spell-venom-hit': {"a": 0, "x": 317, "y": 1753, "w": 51, "h": 89, "n": 14, "cols": 5, "ax": 25.5, "ay": 70.9, "ms": 980, "loop": false, "hold": 3, "layer": "over", "el": "poison"},
+  'spell-warcry-cast': {"a": 0, "x": 322, "y": 1021, "w": 113, "h": 94, "n": 14, "cols": 4, "ax": 56.5, "ay": 77.6, "ms": 980, "loop": false, "hold": 6, "layer": "over", "el": "blood"},
+  'spell-warcry-hit': {"a": 0, "x": 1881, "y": 1753, "w": 39, "h": 53, "n": 12, "cols": 4, "ax": 19.5, "ay": 48.7, "ms": 780, "loop": false, "hold": 5, "layer": "over", "el": "blood"},
   'spell-wolves-cast': {"a": 1, "x": 407, "y": 241, "w": 48, "h": 63, "n": 12, "cols": 4, "ax": 22.5, "ay": 56.4, "ms": 780, "loop": false, "hold": 4, "layer": "over", "el": "forest"},
-  'spell-wolves-hit': {"a": 1, "x": 405, "y": 579, "w": 27, "h": 32, "n": 12, "cols": 4, "ax": 15.0, "ay": 30.0, "ms": 780, "loop": false, "hold": 5, "layer": "over", "el": "earth"},
+  'spell-wolves-hit': {"a": 1, "x": 534, "y": 585, "w": 27, "h": 32, "n": 12, "cols": 4, "ax": 15.0, "ay": 30.0, "ms": 780, "loop": false, "hold": 5, "layer": "over", "el": "earth"},
   'ult-arcBlade-aftermath': {"a": 10, "x": 617, "y": 433, "w": 95, "h": 93, "n": 9, "cols": 3, "ax": 50.5, "ay": 59.6, "ms": 1600, "loop": false, "hold": 4, "layer": "over", "el": "lightning", "cuts": [[0, 7], [1, 8]], "sc": ["crack", "motes"], "g": {"a": 0, "x": 187, "y": 1147, "w": 39, "h": 29, "cols": 3, "ax": 19.38, "ay": 17.15}},
   'ult-arcBlade-strike': {"a": 10, "x": 0, "y": 0, "w": 94, "h": 108, "n": 13, "cols": 4, "ax": 46.5, "ay": 85.5, "ms": 1300, "loop": false, "hold": 4, "layer": "over", "el": "lightning", "cuts": [[0, 8], [3, 12]], "sc": ["bolt", "cross"], "at": "each", "g": {"a": 0, "x": 162, "y": 744, "w": 40, "h": 38, "cols": 4, "ax": 19.88, "ay": 25.87}},
   'ult-arcBlade-windup': {"a": 10, "x": 280, "y": 433, "w": 84, "h": 100, "n": 12, "cols": 4, "ax": 43.0, "ay": 79.2, "ms": 1700, "loop": false, "hold": 6, "layer": "over", "el": "lightning", "cuts": [[0, 11], [2, 11]], "sc": ["spiral", "bolt"], "g": {"a": 0, "x": 1325, "y": 906, "w": 32, "h": 36, "cols": 4, "ax": 16.0, "ay": 26.31}},
@@ -268,9 +268,9 @@ export const BFX_CLIPS: Readonly<Record<string, BfxClip>> = {
   'ult-barbarian-aftermath': {"a": 15, "x": 265, "y": 626, "w": 98, "h": 79, "n": 9, "cols": 3, "ax": 49.5, "ay": 53.6, "ms": 1500, "loop": false, "hold": 4, "layer": "over", "el": "blood", "cuts": [[0, 7], [1, 8]], "sc": ["crack", "motes"]},
   'ult-barbarian-strike': {"a": 14, "x": 0, "y": 0, "w": 265, "h": 199, "n": 13, "cols": 3, "ax": 132.5, "ay": 132.1, "ms": 1300, "loop": false, "hold": 7, "layer": "over", "el": "blood", "cuts": [[1, 12], [0, 8], [3, 12]], "sc": ["impact", "crack", "burst"]},
   'ult-barbarian-windup': {"a": 15, "x": 631, "y": 0, "w": 97, "h": 86, "n": 12, "cols": 3, "ax": 48.5, "ay": 61.6, "ms": 1600, "loop": false, "hold": 9, "layer": "over", "el": "blood", "cuts": [[0, 11], [3, 11]], "sc": ["flare", "shout"]},
-  'ult-beastmaster-aftermath': {"a": 9, "x": 0, "y": 364, "w": 102, "h": 85, "n": 9, "cols": 3, "ax": 51.0, "ay": 58.4, "ms": 2100, "loop": false, "hold": 4, "layer": "over", "el": "forest", "cuts": [[0, 7], [1, 8]], "sc": ["ring", "motes"]},
-  'ult-beastmaster-strike': {"a": 9, "x": 0, "y": 0, "w": 92, "h": 121, "n": 13, "cols": 5, "ax": 45.5, "ay": 98.9, "ms": 1300, "loop": false, "hold": 6, "layer": "over", "el": "forest", "cuts": [[0, 8], [3, 12]], "sc": ["beast", "claws"], "at": "each"},
-  'ult-beastmaster-windup': {"a": 9, "x": 461, "y": 0, "w": 82, "h": 70, "n": 12, "cols": 3, "ax": 44.5, "ay": 51.7, "ms": 2200, "loop": false, "hold": 10, "layer": "over", "el": "forest", "cuts": [[0, 11], [3, 11]], "sc": ["eyes", "swarm"]},
+  'ult-beastmaster-aftermath': {"a": 9, "x": 0, "y": 513, "w": 102, "h": 85, "n": 9, "cols": 3, "ax": 51.0, "ay": 58.4, "ms": 2100, "loop": false, "hold": 4, "layer": "over", "el": "forest", "cuts": [[0, 7], [1, 8]], "sc": ["ring", "motes"]},
+  'ult-beastmaster-strike': {"a": 9, "x": 0, "y": 0, "w": 120, "h": 128, "n": 13, "cols": 4, "ax": 61.5, "ay": 98.9, "ms": 1300, "loop": false, "hold": 6, "layer": "over", "el": "forest", "cuts": [[0, 8], [3, 12]], "sc": ["beast", "claws"], "at": "each"},
+  'ult-beastmaster-windup': {"a": 9, "x": 481, "y": 0, "w": 82, "h": 70, "n": 12, "cols": 3, "ax": 44.5, "ay": 51.7, "ms": 2200, "loop": false, "hold": 10, "layer": "over", "el": "forest", "cuts": [[0, 11], [3, 11]], "sc": ["eyes", "swarm"]},
   'ult-bellWarden-aftermath': {"a": 59, "x": 551, "y": 573, "w": 104, "h": 84, "n": 9, "cols": 3, "ax": 52.0, "ay": 57.4, "ms": 1700, "loop": false, "hold": 3, "layer": "over", "el": "shadow", "cuts": [[0, 7], [1, 8]], "sc": ["ring", "veil"]},
   'ult-bellWarden-strike': {"a": 59, "x": 0, "y": 0, "w": 162, "h": 143, "n": 13, "cols": 4, "ax": 81.0, "ay": 101.6, "ms": 1300, "loop": false, "hold": 5, "layer": "over", "el": "shadow", "cuts": [[0, 8], [3, 12]], "sc": ["shout", "ring"], "at": "self"},
   'ult-bellWarden-windup': {"a": 59, "x": 0, "y": 573, "w": 89, "h": 75, "n": 12, "cols": 3, "ax": 44.5, "ay": 61.6, "ms": 1900, "loop": false, "hold": 8, "layer": "over", "el": "shadow", "cuts": [[0, 11], [4, 11]], "sc": ["shout", "crystal"]},
@@ -448,14 +448,14 @@ export const BFX_CLIPS: Readonly<Record<string, BfxClip>> = {
   'ult-werewolf-aftermath': {"a": 41, "x": 696, "y": 661, "w": 104, "h": 88, "n": 9, "cols": 3, "ax": 52.0, "ay": 61.2, "ms": 1700, "loop": false, "hold": 3, "layer": "over", "el": "blood", "cuts": [[0, 7], [1, 8]], "sc": ["ring", "souls"]},
   'ult-werewolf-strike': {"a": 41, "x": 0, "y": 0, "w": 170, "h": 165, "n": 13, "cols": 4, "ax": 85.0, "ay": 122.8, "ms": 1300, "loop": false, "hold": 6, "layer": "over", "el": "blood", "cuts": [[0, 8], [3, 12], [1, 11]], "sc": ["claws", "shout", "flare"], "at": "self"},
   'ult-werewolf-windup': {"a": 41, "x": 0, "y": 661, "w": 94, "h": 96, "n": 12, "cols": 4, "ax": 47.0, "ay": 71.0, "ms": 1900, "loop": false, "hold": 8, "layer": "over", "el": "blood", "cuts": [[0, 11], [3, 11], [6, 11]], "sc": ["ring", "shout", "claws"]},
-  'ult-wizard-aftermath': {"a": 9, "x": 307, "y": 364, "w": 115, "h": 75, "n": 9, "cols": 3, "ax": 59.5, "ay": 49.6, "ms": 1800, "loop": false, "hold": 4, "layer": "over", "el": "fire", "cuts": [[0, 7], [1, 8]], "sc": ["crack", "smoke"]},
+  'ult-wizard-aftermath': {"a": 9, "x": 307, "y": 513, "w": 115, "h": 75, "n": 9, "cols": 3, "ax": 59.5, "ay": 49.6, "ms": 1800, "loop": false, "hold": 4, "layer": "over", "el": "fire", "cuts": [[0, 7], [1, 8]], "sc": ["crack", "smoke"]},
   'ult-wizard-strike': {"a": 8, "x": 0, "y": 0, "w": 379, "h": 277, "n": 13, "cols": 3, "ax": 189.5, "ay": 183.0, "ms": 1300, "loop": false, "hold": 4, "layer": "over", "el": "fire", "cuts": [[1, 12], [0, 8], [3, 12]], "sc": ["impact", "burst", "crack"]},
-  'ult-wizard-windup': {"a": 9, "x": 708, "y": 0, "w": 73, "h": 93, "n": 12, "cols": 4, "ax": 35.5, "ay": 69.9, "ms": 2000, "loop": false, "hold": 8, "layer": "over", "el": "fire", "cuts": [[0, 11], [3, 11]], "sc": ["vortex", "flames"]},
+  'ult-wizard-windup': {"a": 9, "x": 728, "y": 0, "w": 73, "h": 93, "n": 12, "cols": 4, "ax": 35.5, "ay": 69.9, "ms": 2000, "loop": false, "hold": 8, "layer": "over", "el": "fire", "cuts": [[0, 11], [3, 11]], "sc": ["vortex", "flames"]},
   'ult-wolfBard-aftermath': {"a": 52, "x": 0, "y": 0, "w": 104, "h": 92, "n": 9, "cols": 3, "ax": 52.0, "ay": 65.2, "ms": 1700, "loop": false, "hold": 3, "layer": "over", "el": "wind", "cuts": [[0, 7], [1, 8]], "sc": ["ring", "spiral"]},
   'ult-wolfBard-strike': {"a": 51, "x": 0, "y": 0, "w": 162, "h": 143, "n": 13, "cols": 4, "ax": 81.0, "ay": 101.6, "ms": 1300, "loop": false, "hold": 4, "layer": "over", "el": "wind", "cuts": [[0, 8], [3, 12], [1, 11]], "sc": ["shout", "spiral", "ring"], "at": "self"},
   'ult-wolfBard-windup': {"a": 51, "x": 541, "y": 573, "w": 89, "h": 82, "n": 12, "cols": 3, "ax": 44.5, "ay": 61.6, "ms": 1900, "loop": false, "hold": 10, "layer": "over", "el": "wind", "cuts": [[0, 11], [2, 11]], "sc": ["shout", "motes"]},
   'ult-yamabushi-aftermath': {"a": 29, "x": 618, "y": 649, "w": 85, "h": 86, "n": 9, "cols": 3, "ax": 43.0, "ay": 65.2, "ms": 1700, "loop": false, "hold": 4, "layer": "over", "el": "wind", "cuts": [[0, 7], [1, 8]], "sc": ["cloud", "spiral"]},
   'ult-yamabushi-strike': {"a": 29, "x": 0, "y": 0, "w": 143, "h": 162, "n": 13, "cols": 4, "ax": 71.0, "ay": 117.6, "ms": 1300, "loop": false, "hold": 6, "layer": "over", "el": "wind", "cuts": [[0, 8], [3, 12]], "sc": ["vortex", "gust"], "at": "self"},
   'ult-yamabushi-windup': {"a": 29, "x": 313, "y": 649, "w": 76, "h": 92, "n": 12, "cols": 4, "ax": 40.5, "ay": 70.0, "ms": 1900, "loop": false, "hold": 11, "layer": "over", "el": "wind", "cuts": [[0, 11], [3, 11]], "sc": ["vortex", "gust"]},
-  'zone-fire': {"a": 1, "x": 1279, "y": 241, "w": 45, "h": 37, "n": 10, "cols": 3, "ax": 22.0, "ay": 26.0, "ms": 800, "loop": true, "hold": 0, "layer": "over", "el": "fire"},
+  'zone-fire': {"a": 1, "x": 1406, "y": 241, "w": 45, "h": 37, "n": 10, "cols": 3, "ax": 22.0, "ay": 26.0, "ms": 800, "loop": true, "hold": 0, "layer": "over", "el": "fire"},
 };

diff --git a/tools/blender-fx/scenes.py b/tools/blender-fx/scenes.py
@@ -1614,7 +1614,7 @@ TOWARDS = (0.612, -0.612, 0.5)
 
 
 def spirits(c, r=1.2, n=4, tall=1.1, mode='circle', turns=0.5, hoop=True):
-    robe_m, robe_a = c.solid('bright', 'mid', 0.9, 0.5, 0.0)
+    robe_m, robe_a = c.solid('bright', 'mid', 1.2, 0.5, 0.0)
     hood_m, hood_a = c.solid('mid', 'deep', 0.5, 0.6, 0.0)
     face_m, face_a = c.flat('deep', 0.25)
     steel_m, steel_a = c.flat('hot', 1.6)
@@ -1646,13 +1646,13 @@ def spirits(c, r=1.2, n=4, tall=1.1, mode='circle', turns=0.5, hoop=True):
             base = 0.1 * tall + lift
             # (a guardian: a long robe drawn down to a wisp, a hood over a face in shadow on the side the camera sees, a pauldron on each
             # shoulder, a spear held upright at its side; behind it along the ring, a wake of fading wisps)
-            put(robe, (x, y, base + 0.4 * s), (0.2 * s, 0.2 * s, 0.4 * s), (math.pi, 0, 0))
-            put(hood, (x, y, base + 0.84 * s), (0.15 * s, 0.15 * s, 0.2 * s))
+            put(robe, (x, y, base + 0.4 * s), (0.25 * s, 0.25 * s, 0.4 * s), (math.pi, 0, 0))
+            put(hood, (x, y, base + 0.84 * s), (0.17 * s, 0.17 * s, 0.21 * s))
             put(face, (x + TOWARDS[0] * 0.075 * s, y + TOWARDS[1] * 0.075 * s, base + (0.8 + TOWARDS[2] * 0.075) * s), (0.085 * s, 0.085 * s, 0.1 * s))
             for side, o in zip((-1, 1), pads):
-                put(o, (x + RIGHT[0] * side * 0.19 * s, y + RIGHT[1] * side * 0.19 * s, base + 0.66 * s), (0.09 * s, 0.09 * s, 0.06 * s))
+                put(o, (x + RIGHT[0] * side * 0.22 * s, y + RIGHT[1] * side * 0.22 * s, base + 0.66 * s), (0.11 * s, 0.11 * s, 0.075 * s))
             sx, sy = x + RIGHT[0] * 0.31 * s, y + RIGHT[1] * 0.31 * s
-            put(spear, (sx, sy, base + 0.62 * s), (0.014 * s, 0.014 * s, 1.1 * s))
+            put(spear, (sx, sy, base + 0.62 * s), (0.02 * s, 0.02 * s, 1.1 * s))
             put(tip, (sx, sy, base + 1.24 * s), (0.04 * s, 0.04 * s, 0.16 * s))
             for i, o in enumerate(wake):
                 back = ang - 0.16 * (i + 1) * (1 if mode != 'rise' else 0.3)
@@ -1670,8 +1670,10 @@ def spirits(c, r=1.2, n=4, tall=1.1, mode='circle', turns=0.5, hoop=True):
 # 56. Beast: a wolf's shape (a long body, a head and snout, two ears, four legs, a tail) bursting out of a puff of smoke in a leap,
 # across the camera's view, and landing. What is summoned, arriving.
 def beast(c, size=1.0, puffs=5):
-    m, av = c.solid('bright', 'mid', 0.8, 0.6, 0.0)
-    eye_m, _ = c.flat('hot', 2.2)
+    # (a wolf's own colours, whatever the element: grey fur, an amber eye; the smoke it bursts from and the ring it lands in are the
+    # element's, the magic that called it)
+    m, av = c.solid((0.36, 0.37, 0.42), (0.1, 0.1, 0.12), 0.5, 0.75, 0.0)
+    eye_m, _ = c.flat((1.0, 0.72, 0.18), 2.6)
     body = c.sphere(1.0, m, 2)
     chest = c.sphere(1.0, m, 2)
     head = c.sphere(1.0, m, 2)

diff --git a/tools/blender-fx/effects.py b/tools/blender-fx/effects.py
@@ -178,7 +178,7 @@ BIG = dict(
     veil=(dict(r=1.0, h=2.0, panes=9), 1.6, 2.6), portal=(dict(r=1.0, z=1.2), 1.8, 3.2), pillar=(dict(r=0.9, h=3.2, sparks=30), 1.8, 3.6),
     shout=(dict(r=1.8, h=1.6, n=5), 2.2, 3.2), swarm=(dict(r=1.5, h=2.0, n=30), 1.9, 2.6), motes=(dict(r=1.6, h=2.2, n=34, crosses=7), 2.0, 2.6),
     hearts=(dict(r=1.0, h=2.0, n=9), 1.5, 2.6), wall=(dict(length=3.0, h=1.7, tongues=9), 2.4, 2.2), flames=(dict(r=1.3, h=1.3, tongues=9), 1.9, 2.2),
-    palisade=(dict(length=3.2, h=1.7, n=8), 2.4, 2.2), beast=(dict(size=1.7), 1.5, 1.7), eyes=(dict(r=1.5, n=6), 2.1, 1.6),
+    palisade=(dict(length=3.2, h=1.7, n=8), 2.4, 2.2), beast=(dict(size=2.3), 1.9, 2.2), eyes=(dict(r=1.5, n=6), 2.1, 1.6),
     implode=(dict(r=1.9, n=16, z=0.8), 2.5, 2.3), slab=(dict(r=0.9, n=6, h=1.3), 1.7, 1.9), shaft=(dict(r=0.6, h=3.2, slant=0.4), 2.6, 3.8),
 )
 
@@ -491,7 +491,7 @@ for j, (clip, (pal, scene, opt, canvas, n, ms)) in enumerate(BEAT_ONLY.items()):
 
 # ---- ULT-AUDIT: what an ability IS, as a loop that stays for as long as the ability lasts (docs/notes/ult-audit.md). Spirit Guardians:
 # four ghostly figures a fighter tall circling the Cleric, round and round (`paintAura` draws it on her while the aura lives). ----
-fx('aura-spirits', 'spirits', 'wind', **box(2.9, 3.2, 0.4), frames=12, ms=1300, loop=True, seed=71, glow=False, r=1.3, n=4, tall=1.5, mode='circle', hoop=False)
+fx('aura-spirits', 'spirits', 'wind', **box(3.3, 4.2, 0.4), frames=12, ms=1300, loop=True, seed=71, glow=False, r=1.5, n=4, tall=2.3, mode='circle', hoop=False)
 
 # What the game ships: everything but the library's own previews.
 SHIPPED = [k for k in EFFECTS if not k.startswith('lib-')]
